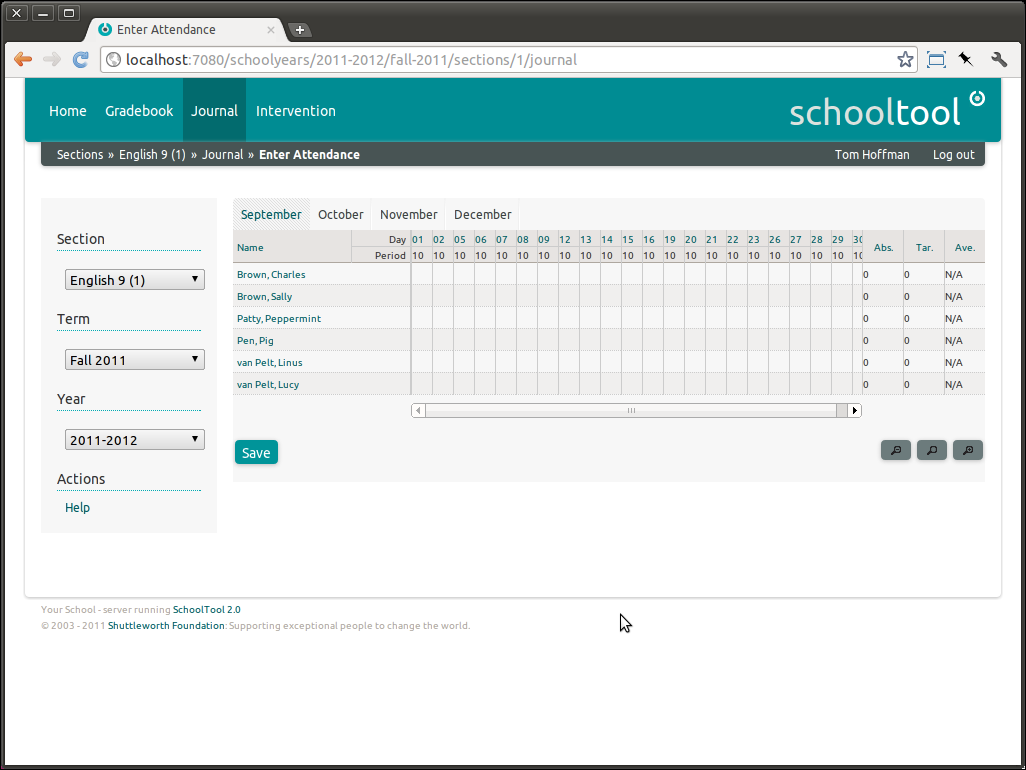
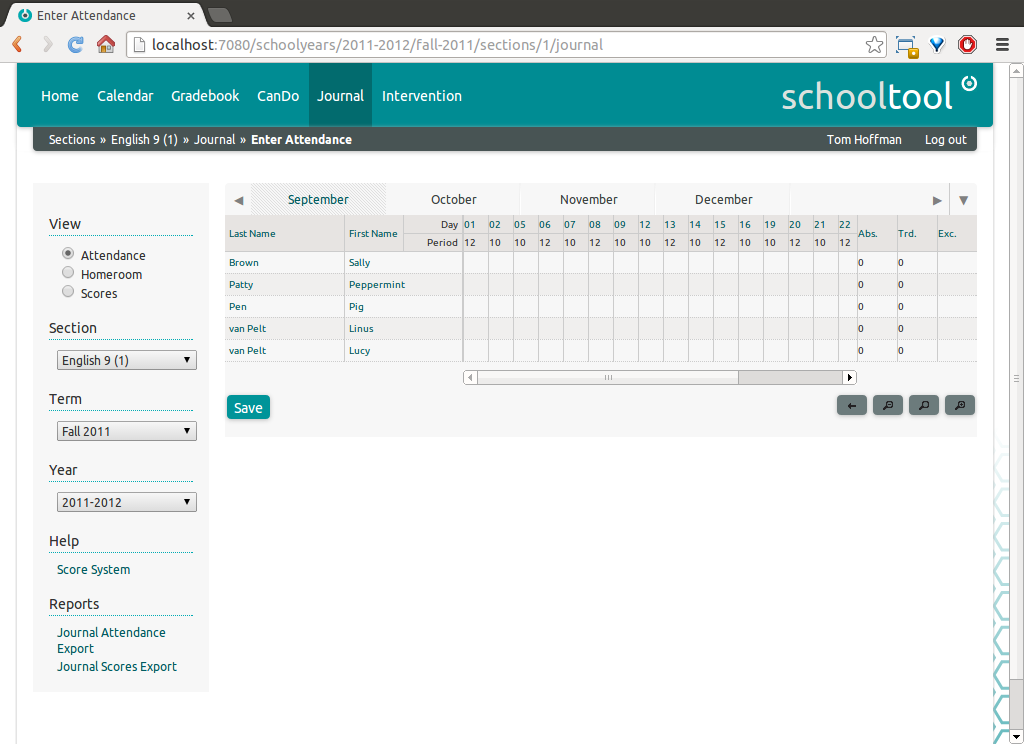
Updating journal.

diff --git a/source/journal.rst b/source/journal.rst
@@ -1,39 +1,57 @@
 Using the Attendance Journal
 ============================
 
-The Journal provides a method of tracking classroom attendance as well as other data attached to specific class meetings, such as class participation grades.  The current emphasis is on creating a fast and convenient method for teachers to enter this data during class.  More advanced attendance functionality, such as excuse workflows, will follow in subsequent releases.
+The Journal provides a method of tracking classroom attendance as well as other data attached to specific class meetings, such as class participation grades.
 
 Finding the Journal
 -------------------
 
-While logged in as a teacher, there are two ways to access your Journal.  On your calendar view, you can follow the "Journal" link on each section meeting event.  You can also follow the **Journal** link in the top bar:
+While logged in as a teacher, there are two ways to access your Journal.  You can follow the **Journal** link in the top bar.  On your calendar view, you can follow the "Journal" link on each section meeting event.  
 
    .. image:: images/journal-1.png
 
-Entering and Saving Data
-------------------------
+At left you will see two or three choices under **View**: **Attendance**, **Scores** and, if this section meets in a defined homeroom period (at least once per cycle), **Homeroom**.  Changing this selection switches the type of data shown and entered in the Journal.
 
-The tabs across the top of the grid allow you to switch between months, and the column headers correspond to days, with time or period name in a row below.  If the section meets multiple times within the same day, there will be multiple columns with the same date and different time/period listed.
+   .. image:: images/journal-1_5.png
 
-To navigate around the worksheet, you can use the mouse to click directly on a cell or use the arrow keys to move from cell to cell. 
+The **Attendance** and **Homeroom** views are for attendance data, **Scores** is for assigning a score to students for that meeting of the section, for example to record a participation grade.
 
-In each cell, you can either enter:
+Setting Up Attendance Codes and Journal Score System
+----------------------------------------------------
 
-  - an "a" for an absence;
-  - a "t" for a tardy (late) student;
-  - a number from 0 to 9, where "0" will register as "10."
+Attendance codes are handled as a special type of score system in SchoolTool.  As a member of **Site Managers**, navigate to **School** and then **Customize: Score Systems**:
 
-   .. image:: images/journal-2.png
+   .. image:: images/journal-1_6.png
 
-You must click **Save** to save your work.
+If you click on the **Attendance** Score System, you can see the details of the default:
 
-Journal Statistics
-------------------
+   .. image:: images/journal-1_7.png
 
-The **Absences** column totals the student's absences for the entire Term (not just the current month).  For example, viewing the **October** tab carries across the **September** statistics from above.
+You cannot edit or delete score systems (changing them after teachers had assigned scores would cause chaos), so if you want a different set of attendance codes, click **Add: Attendance System**:
 
-   .. image:: images/journal-7.png
+   .. image:: images/journal-1_8.png
 
-The **Average** column provides the average of the numeric scores for the term.  Note that if no score is entered for a given day, it is not included in the calculation.  That is, an empty cell does not equal "0" when the average is calculated.
+At the top of the form, give your score system a title.  Add rows to the table in the lower half of the form to define the attendance system.
+
+  * **Value** - is what the teacher will enter in the Journal, use lowercase so the teacher will not have to use the shift key.
+  * **Description** - this may be very simple, "Absent, Unexcused," or it may be used to differentiate describe different sub-types, like "Absent - Medical" or "Absent - School Activity." 
+ * **Report as** - these are the three basic attendance statuses, **Present**, **Absent** and **Tardy** (that is, arrived late).  
+ * **Excused** - select whether this code is considered a properly excused absence or tardy instance.
+
+Click **Add** to create an additional code.  Click **Save** when you are finished.
+
+   .. image:: images/journal-1_9.png
+
+   .. image:: images/journal-1_10.png
+
+Now click **Customize: Journal Score Systems**:
+
+   .. image:: images/journal-1_12.png
+
+This form sets the Score System used in the **Score** mode of Journals across the school.  By default, this is set to the "10 Points" system.  You can select a different system, either another default one or a custom one, in this form.
+
+You can also select the Attendance Score System used in the **Attendance** and **Homeroom** mode of Journals across the school.
+
+
 
 

diff --git a/source/journal-scores.rst b/source/journal-scores.rst
@@ -1,0 +1,31 @@
+Entering Attendance and Scores in the Journal
+=============================================
+
+With our new Score Systems for attendance and scoring set in the Journal, log back in as a teacher and navigate to the Journal.
+
+Each tab represents a month in the term selected at left.  Each column is a meeting of the section selected at left.  This is affected by the **Treat consecutive periods as one meeting** setting in :ref:`sections`.
+
+   .. image:: images/journal-scores-1.png
+
+Entering Attendance Data
+------------------------
+
+Note that **Help: Score System** will bring up a reminder of valid codes.
+
+   .. image:: images/journal-scores-2.png
+
+Click in the cell corresponding to the student/period in question and enter a code.  If it is valid, the cell background will turn green and the full value and description should appear below the cell.  If there are multiple valid scores starting with this letter, all valid choices will appear as a menu below.  
+
+If you click outside the cell, or click the value in the menu, the score will be entered in the cell.  If you press the **Enter** key, the score will be entered and the cursor will move down to the next cell in the column.  If you press the **Tab** key the value will be entered and the cursor will move right to the next cell in the row.
+
+All entered values are unsaved until the **Save** button is pressed.  Cells with the green background are unsaved.
+
+   .. image:: images/journal-scores-3.png
+
+The **Absences** column totals the student's absences for the entire Term (not just the current month).  For example, viewing the **October** tab carries across the **September** statistics from above.
+
+   .. image:: images/journal-7.png
+
+The **Average** column provides the average of the numeric scores for the term.  Note that if no score is entered for a given day, it is not included in the calculation.  That is, an empty cell does not equal "0" when the average is calculated.
+
+

diff --git a/source/gradebook-toc.rst b/source/gradebook-toc.rst
@@ -20,4 +20,5 @@ Contents:
    report-sheet
    course-worksheets
    journal
+   journal-scores
 
